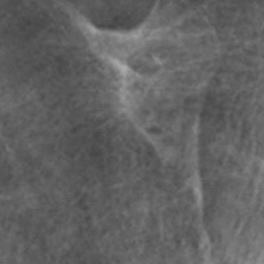
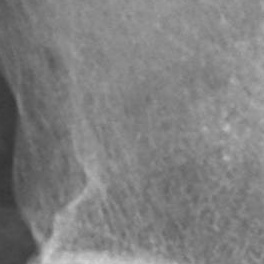
Add new model to extract tumor

diff --git a/train_resnet.py b/train_resnet.py
@@ -1,0 +1,175 @@
+import torch
+import torch.nn as nn
+import torch.optim as optim
+from torchvision import models, transforms
+from torch.utils.data import Dataset, DataLoader
+import pandas as pd
+import os
+import copy
+from PIL import Image
+from sklearn.model_selection import train_test_split
+
+# ==========================================
+# 1. Định nghĩa Custom Dataset
+# ==========================================
+class BoneTumorDataset(Dataset):
+    def __init__(self, dataframe, img_dir, transform=None):
+        """
+        dataframe: DataFrame chứa tên file ảnh và nhãn
+        img_dir: Đường dẫn đến thư mục chứa toàn bộ ảnh
+        transform: Các phép biến đổi ảnh (augmentation)
+        """
+        self.dataframe = dataframe.reset_index(drop=True)
+        self.img_dir = img_dir
+        self.transform = transform
+
+    def __len__(self):
+        return len(self.dataframe)
+
+    def __getitem__(self, idx):
+        # LƯU Ý: Thay 'filename' và 'label' bằng tên cột thực tế trong file Excel của bạn
+        img_name = str(self.dataframe.loc[idx, 'image_id'])
+        splt = img_name.split(".")
+        if splt[1] == "jpg" :
+            img_name = f"{splt[0]}.jpeg"
+        label = int(self.dataframe.loc[idx, 'tumor']) # Giả sử nhãn là 0 (Không u) và 1 (Có u)
+        
+        # Đọc ảnh
+        img_path = os.path.join(self.img_dir, img_name)
+        image = Image.open(img_path).convert('RGB')
+        
+        if self.transform:
+            image = self.transform(image)
+            
+        return image, label
+
+# ==========================================
+# 2. Hàm Huấn luyện chính
+# ==========================================
+def train_model_from_excel(excel_path, img_dir, num_epochs=15, batch_size=16, learning_rate=1e-4):
+    device = torch.device("cuda" if torch.cuda.is_available() else "cpu")
+    print(f"Đang huấn luyện trên thiết bị: {device}")
+
+    # Đọc dữ liệu từ file Excel
+    print("Đang đọc file Excel và chia tập dữ liệu...")
+    df = pd.read_excel(excel_path)
+    
+    # Chia tập Train (80%) và Val (20%)
+    # stratify=df['label'] giúp đảm bảo tỷ lệ Có u / Không u đồng đều ở cả 2 tập
+    train_df, val_df = train_test_split(df, test_size=0.2, random_state=42,stratify=df['tumor'])
+    
+    print(f"Số lượng ảnh Train: {len(train_df)} | Val: {len(val_df)}")
+
+    # Cấu hình Augmentation
+    data_transforms = {
+        'train': transforms.Compose([
+            transforms.Resize((256, 256)),
+            transforms.RandomHorizontalFlip(),
+            transforms.RandomRotation(15),
+            transforms.ColorJitter(brightness=0.2, contrast=0.2),
+            transforms.ToTensor(),
+            transforms.Normalize([0.485, 0.456, 0.406], [0.229, 0.224, 0.225])
+        ]),
+        'val': transforms.Compose([
+            transforms.Resize((256, 256)),
+            transforms.ToTensor(),
+            transforms.Normalize([0.485, 0.456, 0.406], [0.229, 0.224, 0.225])
+        ]),
+    }
+
+    # Khởi tạo Custom Datasets
+    image_datasets = {
+        'train': BoneTumorDataset(train_df, img_dir, transform=data_transforms['train']),
+        'val': BoneTumorDataset(val_df, img_dir, transform=data_transforms['val'])
+    }
+    
+    # Khởi tạo DataLoaders (batch_size=16 phù hợp cho 4GB VRAM)
+    dataloaders = {
+        x: DataLoader(image_datasets[x], batch_size=batch_size, shuffle=(x == 'train'), num_workers=2)
+        for x in ['train', 'val']
+    }
+    dataset_sizes = {x: len(image_datasets[x]) for x in ['train', 'val']}
+
+    # Setup ResNet18
+    model = models.resnet18(weights=models.ResNet18_Weights.DEFAULT)
+    num_ftrs = model.fc.in_features
+    model.fc = nn.Linear(num_ftrs, 2) # 2 class (0 và 1)
+    model = model.to(device)
+
+    criterion = nn.CrossEntropyLoss()
+    optimizer = optim.Adam(model.parameters(), lr=learning_rate, weight_decay=1e-4)
+
+    # Vòng lặp huấn luyện
+    best_model_wts = copy.deepcopy(model.state_dict())
+    best_acc = 0.0
+
+    for epoch in range(num_epochs):
+        print(f'\nEpoch {epoch+1}/{num_epochs}')
+        print('-' * 10)
+
+        for phase in ['train', 'val']:
+            if phase == 'train':
+                model.train()
+            else:
+                model.eval()
+
+            running_loss = 0.0
+            running_corrects = 0
+
+            for inputs, labels in dataloaders[phase]:
+                inputs = inputs.to(device)
+                labels = labels.to(device)
+
+                optimizer.zero_grad()
+
+                with torch.set_grad_enabled(phase == 'train'):
+                    outputs = model(inputs)
+                    _, preds = torch.max(outputs, 1)
+                    loss = criterion(outputs, labels)
+
+                    if phase == 'train':
+                        loss.backward()
+                        optimizer.step()
+
+                running_loss += loss.item() * inputs.size(0)
+                running_corrects += torch.sum(preds == labels.data)
+
+            epoch_loss = running_loss / dataset_sizes[phase]
+            epoch_acc = running_corrects.double() / dataset_sizes[phase]
+
+            print(f'{phase.capitalize()} Loss: {epoch_loss:.4f} Acc: {epoch_acc:.4f}')
+
+            if phase == 'val' and epoch_acc > best_acc:
+                best_acc = epoch_acc
+                best_model_wts = copy.deepcopy(model.state_dict())
+
+    print(f'\nHuấn luyện hoàn tất. Best Val Acc: {best_acc:4f}')
+    model.load_state_dict(best_model_wts)
+    save_dir = "/kaggle/worker/model"
+    save_path = os.path.join(save_dir, "resnet18_tumor_classifier.pth")
+    
+    # 2. Kiểm tra và tạo thư mục nếu chưa tồn tại
+    if not os.path.exists(save_dir):
+        os.makedirs(save_dir, exist_ok=True)
+        print(f"Đã tạo thư mục: {save_dir}")
+
+    # 3. Lưu mô hình
+    torch.save(model.state_dict(), save_path)
+    print(f"Mô hình đã được lưu tại: {save_path}")
+
+    return model
+
+# ==========================================
+# CÁCH CHẠY
+# ==========================================
+if __name__ == '__main__':
+    # THAY ĐỔI ĐƯỜNG DẪN TẠI ĐÂY
+    EXCEL_PATH = "data/BTXRD/dataset.xlsx" 
+    IMG_DIR = "data/BTXRD/images"   
+    trained_model = train_model_from_excel(
+        excel_path=EXCEL_PATH, 
+        img_dir=IMG_DIR, 
+        num_epochs=15,
+        batch_size=16,
+        learning_rate=1e-4
+    )

diff --git a/experiment_1.py b/experiment_1.py
@@ -1,0 +1,118 @@
+import cv2
+import torch
+import numpy as np
+from torchvision import models, transforms
+from pytorch_grad_cam import GradCAM
+from pytorch_grad_cam.utils.model_targets import ClassifierOutputTarget
+
+def get_gradcam_heatmap(model, input_tensor, target_layer):
+    """
+    Bước 1: Trích xuất Heatmap từ mạng CNN phân loại thô
+    """
+    # Khởi tạo GradCAM
+    cam = GradCAM(model=model, target_layers=[target_layer])
+    
+    # target=None nghĩa là lấy class có xác suất cao nhất (Dự đoán là Có U)
+    targets = [ClassifierOutputTarget(1)] # Giả sử class 1 là "Có u"
+    
+    # Sinh heatmap (trả về mảng 2D giá trị từ 0 đến 1)
+    grayscale_cam = cam(input_tensor=input_tensor, targets=targets)
+    
+    return grayscale_cam[0, :]
+
+def extract_roi_and_crop(orig_image_path, heatmap, resize_dim=(256, 256), threshold=0.5, padding=30):
+    """
+    Bước 2: Binarize heatmap, tìm Bounding Box và cắt ảnh gốc
+    """
+    # 1. Đọc ảnh gốc (độ phân giải cao)
+    orig_image = cv2.imread(orig_image_path)
+    orig_h, orig_w = orig_image.shape[:2]
+    
+    # 2. Tiền xử lý heatmap thành ảnh nhị phân (Mask)
+    # Những vùng có độ "nóng" > threshold sẽ được giữ lại
+    binary_mask = np.uint8(heatmap > threshold) * 255
+    
+    # 3. Tìm các contours (đường viền) trên mask
+    contours, _ = cv2.findContours(binary_mask, cv2.RETR_EXTERNAL, cv2.CHAIN_APPROX_SIMPLE)
+    
+    if not contours:
+        print("Không tìm thấy vùng khả nghi nào thỏa mãn ngưỡng threshold.")
+        return None
+        
+    # Lấy contour lớn nhất (đề phòng nhiễu nhỏ lẻ)
+    largest_contour = max(contours, key=cv2.contourArea)
+    
+    # Tìm Bounding Box trên hệ tọa độ của ảnh đã resize (256x256)
+    x, y, w, h = cv2.boundingRect(largest_contour)
+    
+    # 4. Ánh xạ tọa độ Bounding Box về kích thước ảnh gốc
+    scale_x = orig_w / resize_dim[0]
+    scale_y = orig_h / resize_dim[1]
+    
+    x_orig = int(x * scale_x)
+    y_orig = int(y * scale_y)
+    w_orig = int(w * scale_x)
+    h_orig = int(h * scale_y)
+    
+    # 5. Thêm Padding (mở rộng vùng cắt)
+    # Rất quan trọng: Padding giúp WeakMedSAM có thêm ngữ cảnh xung quanh khối u
+    x_pad = max(0, x_orig - padding)
+    y_pad = max(0, y_orig - padding)
+    x_end = min(orig_w, x_orig + w_orig + padding)
+    y_end = min(orig_h, y_orig + h_orig + padding)
+    
+    # 6. Thực hiện cắt (Crop)
+    cropped_roi = orig_image[y_pad:y_end, x_pad:x_end]
+    
+    return cropped_roi, (x_pad, y_pad, x_end, y_end)
+
+# ================= CÁCH SỬ DỤNG =================
+
+if __name__ == "__main__":
+    # 1. Setup mô hình ResNet18 (Thay bằng model bạn đã train để phân loại u/không u)
+    device = torch.device("cuda" if torch.cuda.is_available() else "cpu")
+    model = models.resnet18(pretrained=False)
+    model.fc = torch.nn.Linear(model.fc.in_features, 2) # 2 class: Bình thường / Có u
+    
+    # Tải weights bạn đã train vào đây
+    # model.load_state_dict(torch.load('resnet18_xray_classifier.pth'))
+    model = model.to(device)
+    model.eval()
+    
+    # Target layer cho ResNet18 thường là layer conv cuối cùng
+    target_layer = model.layer4[-1]
+    
+    # 2. Chuẩn bị ảnh đầu vào
+    image_path = "path_to_your_btrxd_image.jpg"
+    
+    # Transform chuẩn của torchvision
+    transform = transforms.Compose([
+        transforms.ToPILImage(),
+        transforms.Resize((256, 256)),
+        transforms.ToTensor(),
+        transforms.Normalize(mean=[0.485, 0.456, 0.406], std=[0.229, 0.224, 0.225])
+    ])
+    
+    # Đọc và biến đổi ảnh thành tensor
+    img_cv = cv2.imread(image_path)
+    img_cv_rgb = cv2.cvtColor(img_cv, cv2.COLOR_BGR2RGB)
+    input_tensor = transform(img_cv_rgb).unsqueeze(0).to(device)
+    
+    # 3. Thực thi Pipeline
+    # Lấy Heatmap
+    heatmap = get_gradcam_heatmap(model, input_tensor, target_layer)
+    
+    # Cắt ROI từ ảnh gốc
+    result = extract_roi_and_crop(
+        orig_image_path=image_path,
+        heatmap=heatmap,
+        resize_dim=(256, 256),
+        threshold=0.6, # Bạn có thể tinh chỉnh ngưỡng này (0.0 -> 1.0)
+        padding=50     # Mở rộng 50 pixel mỗi viền
+    )
+    
+    if result is not None:
+        cropped_image, bbox = result
+        print(f"Cắt thành công ROI tại tọa độ gốc: {bbox}")
+        # Lưu lại để đưa vào Bước 3 (WeakMedSAM)
+        cv2.imwrite("roi_for_sam.jpg", cropped_image)

diff --git a/test.py b/test.py
@@ -80,6 +80,15 @@ from samus.build_sam_us import samus_model_registry
 
 # new_img.save("Mask.jpg")
 # new_img.show()
-test = torch.load("output_patch_image/IMG000001.pt", 
-                  weights_only=False)
-print(test["image_path"])
+img = cv.imread("data/BTXRD/images/IMG000002.jpeg")
+img = cv.cvtColor(img, cv.COLOR_BGR2RGB)
+h, w, _ = img.shape
+img_resize = cv.resize(img, (512, 512))
+bbx = [540, 2444, 804, 2708]
+resize_h, resize_w = 512 / h, 512 / w
+x1, y1, x2, y2 = int(bbx[0] * resize_w), int(bbx[1] * resize_h), int(bbx[2] * resize_w), int(bbx[3] * resize_h)
+print(x1, y1, x2, y2)
+img_resize = cv.rectangle(img_resize, (x1, y1), (x2, y2), (0, 0, 255), 5)
+cv.imshow("Bounding box", img_resize)
+cv.waitKey(0)
+

diff --git a/get_patch_tumor.py b/get_patch_tumor.py
@@ -21,7 +21,7 @@ class LocalBagDataset(BagDataset) :
         patches = []
         for x, y in coords:
             patch = img[y:y+self.patch_size, x:x+self.patch_size]
-            patch_tensor = self.preprocess(patch)
+            patch_tensor = self.preprocess_val(patch)
             patches.append(patch_tensor)
             
         bag_tensor = torch.stack(patches)
